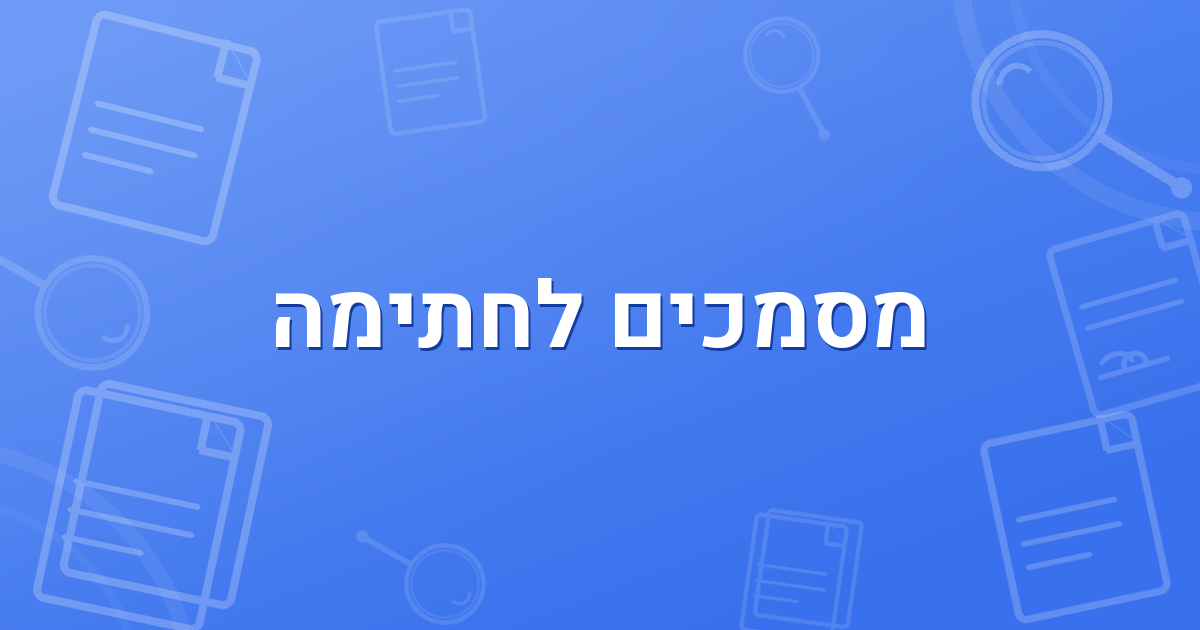
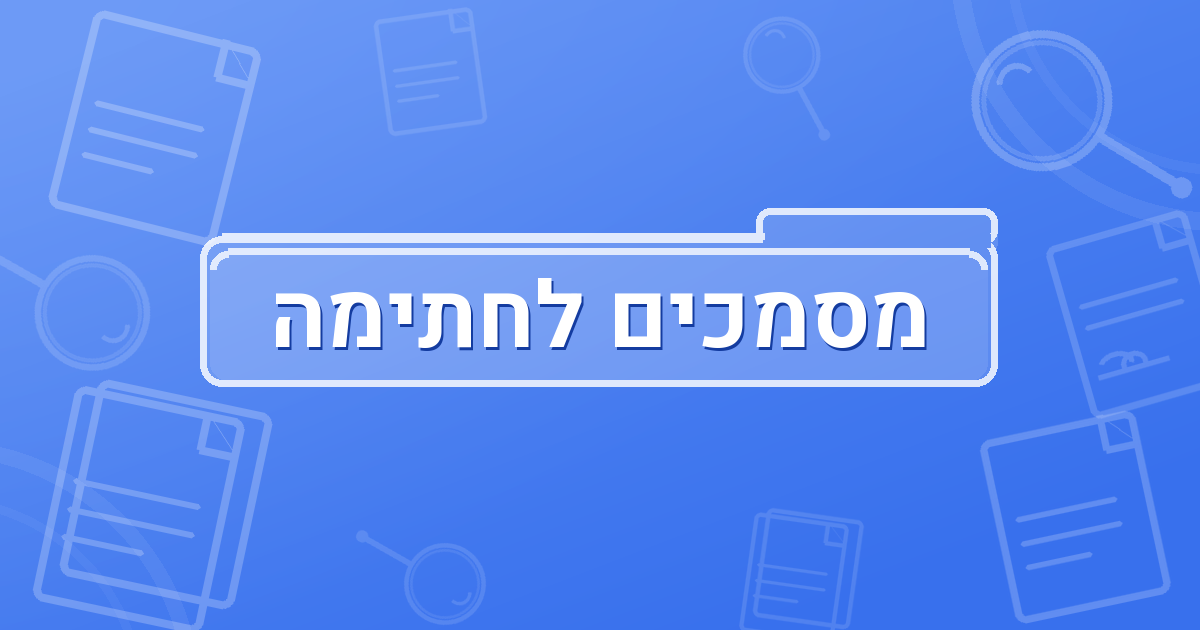
Put a transparent folder behind מסמכים לחתימה on the WhatsApp card.
The folder spans the whole phrase so the title sits on a clear file-folder shape.

Changed region(s): [[0.1542, 0.3317, 0.8325, 0.6333]]

diff --git a/_test-gi-sign.js b/_test-gi-sign.js
@@ -140,7 +140,7 @@ assert(html.includes("gi-sign.css?v=20261002-sign-v6"), "עיצוב הכפתור
 assert(signJs.includes("function signShareText") && signJs.includes("מאת : ") && !signJs.includes("📄") && !signJs.includes("🖊") && !signJs.includes("מא. ") && signJs.includes("function agentFirstName") && signJs.includes("clipboard.writeText(signShareText(href))") && !signJs.includes("github.io"), "העתקת הלינק לוואטסאפ היא מאת : עם שם פרטי, בלי אייקון ובלי שם המערכת");
 const shareFn = signJs.slice(signJs.indexOf("function signShareText"), signJs.indexOf("function currentAgent"));
 assert(shareFn.includes("מאת : ") && !shareFn.includes("חתימה על מסמך") && !shareFn.includes("מסמכים לחתימה") && !shareFn.includes("GEMEL") && !shareFn.includes("📄"), "טקסט השיתוף הוא רק מאת : בלי כפילות של מסמכים לחתימה");
-assert(page.includes('<title>מסמכים לחתימה</title>') && page.includes('property="og:title" content="מסמכים לחתימה"') && page.includes("https://gemelinvest.github.io/gemel-invest/gi-sign-icon.png?v=sign-og-v6") && page.includes('property="og:image:secure_url"') && page.includes("summary_large_image") && fs.existsSync(path.join(ROOT, "gi-sign-icon.png")) && !page.includes("חתימה על מסמך") && !page.includes('content="חתימה"') && !page.includes("GEMEL"), "כרטיס וואטסאפ עם תמונה מלאה וכותרת מסמכים לחתימה");
+assert(page.includes('<title>מסמכים לחתימה</title>') && page.includes('property="og:title" content="מסמכים לחתימה"') && page.includes("https://gemelinvest.github.io/gemel-invest/gi-sign-icon.png?v=sign-og-v7") && page.includes('property="og:image:secure_url"') && page.includes("summary_large_image") && fs.existsSync(path.join(ROOT, "gi-sign-icon.png")) && !page.includes("חתימה על מסמך") && !page.includes('content="חתימה"') && !page.includes("GEMEL"), "כרטיס וואטסאפ עם תמונה מלאה וכותרת מסמכים לחתימה");
 assert(fs.readFileSync(path.join(ROOT, "gi-sign.css"), "utf8").includes("overflow-x:hidden") && fs.readFileSync(path.join(ROOT, "gi-sign.css"), "utf8").includes("text-overflow:ellipsis") && app.includes('cfFile__documentRowActions">${downloadBtn}'), "שורות המסמכים בתיק בשורה אחת בלי גלילה ימין-שמאל");
 assert(fs.readFileSync(path.join(ROOT, "gi-sign.css"), "utf8").includes("max-width:min(340px, calc(100vw - 24px)) !important") && signJs.includes("giSignSend__x"), "חלון הלינקים קטן והסגירה בצד");
 assert(app.includes('gi-cancel-forms.js?v=20260914-mc-followup-qfix-v2&giSign=2'), "חלון הטופס נטען מחדש");

diff --git a/s.html b/s.html
@@ -6,15 +6,15 @@
 <title>מסמכים לחתימה</title>
 <meta property="og:title" content="מסמכים לחתימה"/>
 <meta property="og:type" content="website"/>
-<meta property="og:image" content="https://gemelinvest.github.io/gemel-invest/gi-sign-icon.png?v=sign-og-v6"/>
-<meta property="og:image:secure_url" content="https://gemelinvest.github.io/gemel-invest/gi-sign-icon.png?v=sign-og-v6"/>
+<meta property="og:image" content="https://gemelinvest.github.io/gemel-invest/gi-sign-icon.png?v=sign-og-v7"/>
+<meta property="og:image:secure_url" content="https://gemelinvest.github.io/gemel-invest/gi-sign-icon.png?v=sign-og-v7"/>
 <meta property="og:image:type" content="image/png"/>
 <meta property="og:image:width" content="1200"/>
 <meta property="og:image:height" content="630"/>
 <meta name="twitter:card" content="summary_large_image"/>
 <meta name="twitter:title" content="מסמכים לחתימה"/>
-<meta name="twitter:image" content="https://gemelinvest.github.io/gemel-invest/gi-sign-icon.png?v=sign-og-v6"/>
-<link rel="icon" type="image/png" href="./gi-sign-icon.png?v=sign-og-v6"/>
+<meta name="twitter:image" content="https://gemelinvest.github.io/gemel-invest/gi-sign-icon.png?v=sign-og-v7"/>
+<link rel="icon" type="image/png" href="./gi-sign-icon.png?v=sign-og-v7"/>
 <link href="https://fonts.googleapis.com/css2?family=Heebo:wght@400;600;700;800&display=swap" rel="stylesheet"/>
 <link rel="stylesheet" href="https://cdn.jsdelivr.net/npm/pdfjs-dist@3.11.174/web/pdf_viewer.css"/>
 <style>
